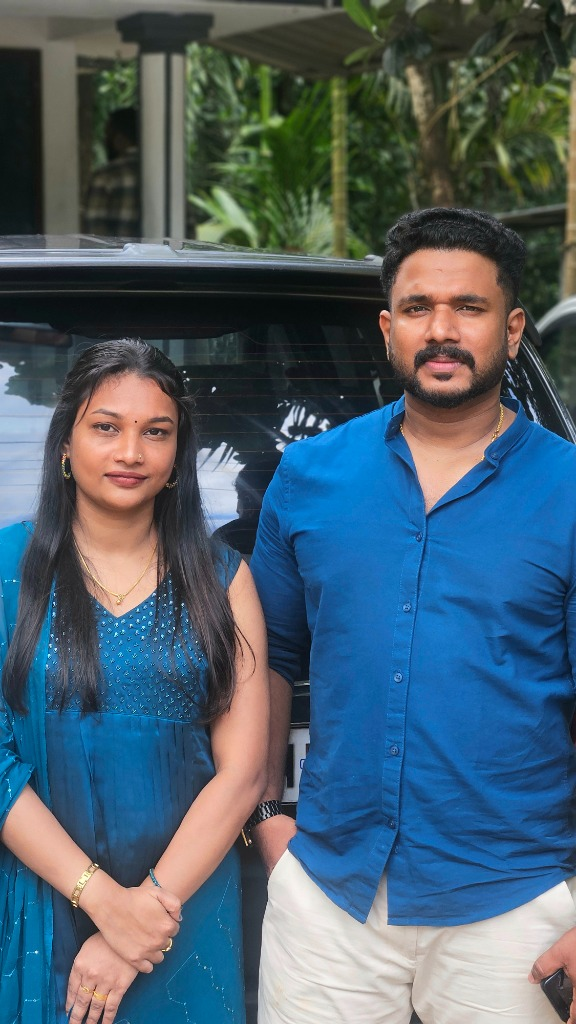
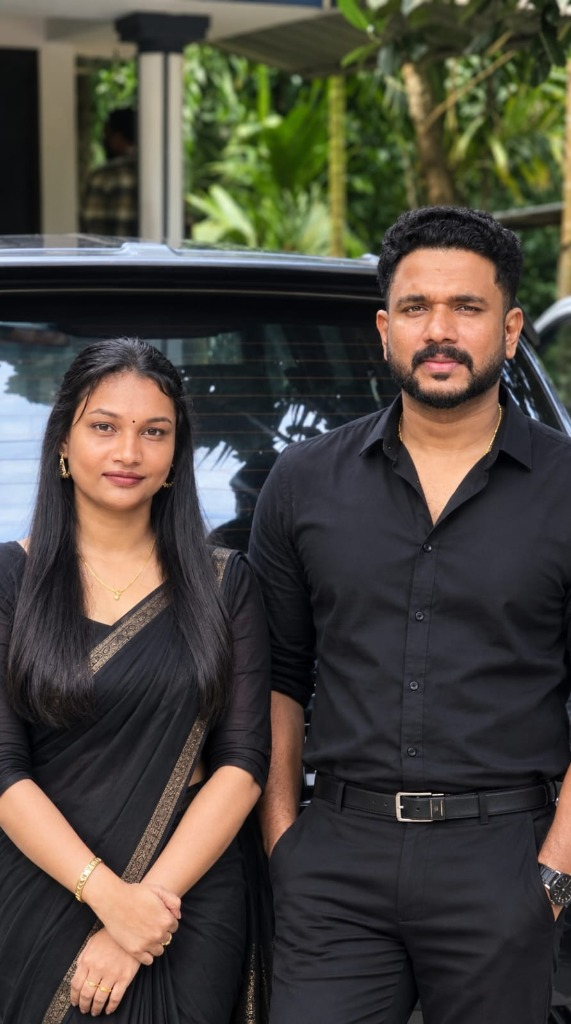
Update changes

diff --git a/src/components/MainInvitation.jsx b/src/components/MainInvitation.jsx
@@ -12,37 +12,6 @@ export default function MainInvitation() {
     >
       <div className="reveal-section max-w-3xl mx-auto rounded-2xl overflow-hidden shadow-[0_20px_60px_rgba(74,14,23,0.12)] border border-[#C59B5F]/40 bg-[#E8DDD1]">
         {/* Couple Photo Area with Warm Fallback */}
-        <div className="relative w-full h-[460px] sm:h-[620px] bg-gradient-to-b from-[#69212C] via-[#4A0E17] to-[#32080E] overflow-hidden">
-          {!imgFailed && (
-            <img
-              src={coupleSrc}
-              alt="Athira and Sandeep"
-              onError={() => setImgFailed(true)}
-              className="w-full h-full object-cover object-[50%_32%]"
-            />
-          )}
-
-          {/* Subtle gradient tint over bottom for seamless edge */}
-          <div className="absolute inset-0 bg-gradient-to-t from-[#4A0E17]/40 via-transparent to-[#1F0509]/20 pointer-events-none" />
-
-          {/* SVG Torn-Paper Edge Transition into Soft Beige Card */}
-          <svg
-            viewBox="0 0 1440 110"
-            preserveAspectRatio="none"
-            className="absolute -bottom-px left-0 w-full h-10 sm:h-14 block pointer-events-none"
-            aria-hidden="true"
-          >
-            <path
-              d="M0,46 L38,62 L74,38 L118,58 L164,34 L205,64 L252,42 L298,66 L345,39 L392,61 L444,31 L492,65 L540,44 L590,68 L636,36 L688,63 L735,40 L786,67 L834,33 L884,60 L932,42 L982,66 L1030,35 L1080,62 L1128,38 L1176,65 L1224,41 L1272,63 L1320,37 L1370,59 L1412,42 L1440,54 L1440,110 L0,110 Z"
-              fill="#FAF7F2"
-              opacity="0.45"
-            />
-            <path
-              d="M0,56 L42,72 L86,48 L130,70 L176,45 L224,74 L274,52 L322,76 L372,49 L420,73 L468,43 L518,75 L566,53 L614,77 L662,47 L714,72 L762,50 L812,76 L860,44 L910,70 L958,51 L1008,75 L1056,46 L1104,72 L1152,49 L1202,74 L1250,51 L1298,72 L1346,48 L1396,68 L1440,56 L1440,110 L0,110 Z"
-              fill="#E8DDD1"
-            />
-          </svg>
-        </div>
 
         {/* Soft Beige Invitation Details Card */}
         <div className="relative bg-[#E8DDD1] px-6 sm:px-12 pt-4 pb-12 sm:pb-14 text-center">

diff --git a/src/components/PhotoGallery.jsx b/src/components/PhotoGallery.jsx
@@ -4,7 +4,7 @@ import { ChevronLeft, ChevronRight, Sparkles, X } from 'lucide-react'
 const GALLERY_PHOTOS = [
   {
     file: 'couple1.jpg',
-    alt: 'Athira and Sandeep in royal blue',
+    alt: 'Athira and Sandeep in black attire',
     caption: 'Forever Begins',
     position: 'object-[50%_18%]',
   },
